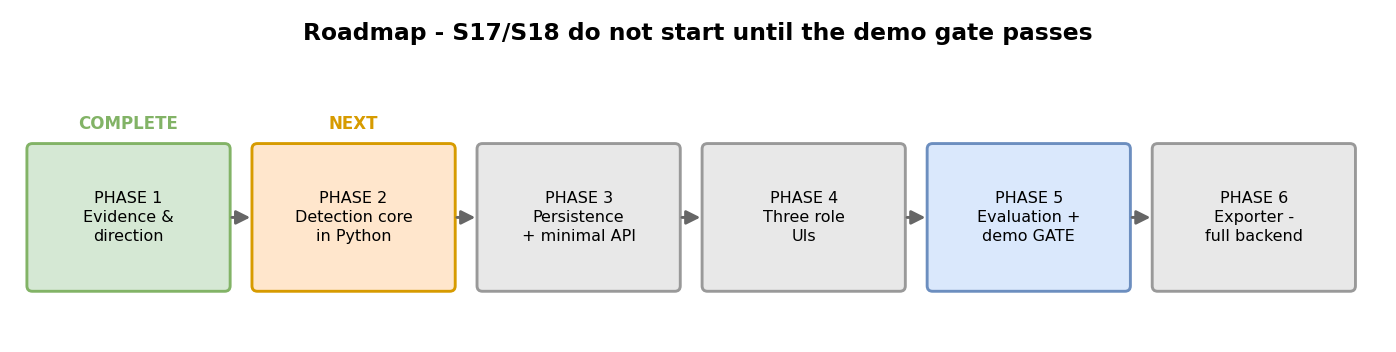
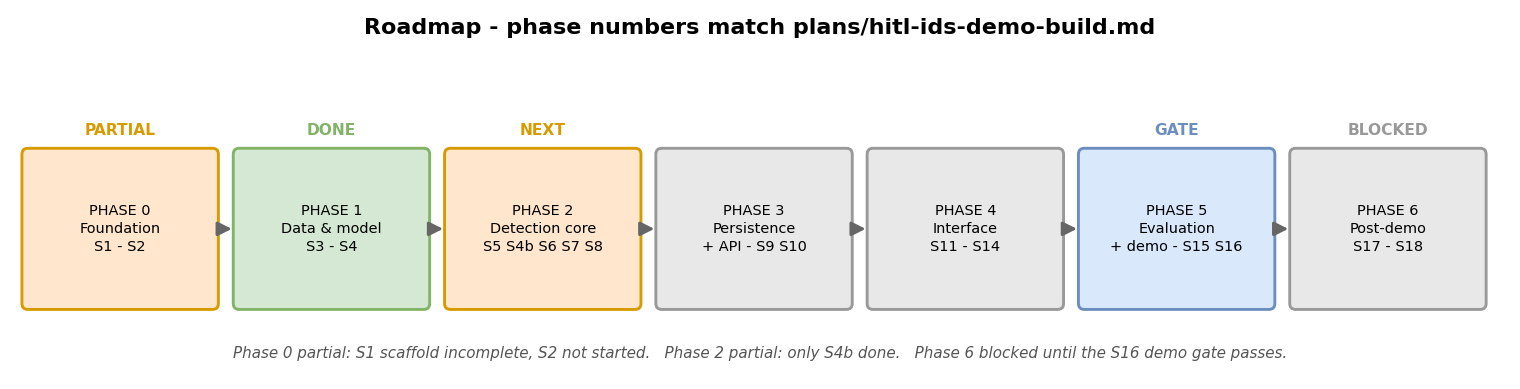
Remove phase-numbering ambiguity: plan numbering is canonical
The iteration report numbered phases differently from plans/hitl-ids-demo-build.md,
so 'Phase 1 complete' meant two different things depending on which document you
read. The plan is now the single source of truth (Phase 0 Foundation ... Phase 6
Post-demo), and the completed evidence work is named 'Iteration 1 - Evidence &
Direction', a work iteration spanning plan Phase 1 plus step S4b.

The roadmap diagram now shows all seven plan phases with their real status:
Phase 0 PARTIAL (S2 not started), Phase 1 DONE, Phase 2 only S4b done,
Phases 3-6 not started.

diff --git a/hitl-ids/scripts/make_diagrams.py b/hitl-ids/scripts/make_diagrams.py
@@ -195,27 +195,34 @@ def triage():
 
 
 def roadmap():
-    fig, ax = canvas(11, 2.6)
-    H = 2.6 / 11 * 10
+    fig, ax = canvas(12, 2.9)
+    H = 2.9 / 12 * 10
+    # Phase numbering is CANONICAL and matches plans/hitl-ids-demo-build.md exactly.
+    # Do not renumber here without renumbering the plan.
     phases = [
-        ("PHASE 1\nEvidence &\ndirection", GREEN, "green", "COMPLETE"),
-        ("PHASE 2\nDetection core\nin Python", ORANGE, "orange", "NEXT"),
-        ("PHASE 3\nPersistence\n+ minimal API", GREY, "grey", ""),
-        ("PHASE 4\nThree role\nUIs", GREY, "grey", ""),
-        ("PHASE 5\nEvaluation +\ndemo GATE", BLUE, "blue", ""),
-        ("PHASE 6\nExporter -\nfull backend", GREY, "grey", ""),
+        ("PHASE 0\nFoundation\nS1 - S2", ORANGE, "orange", "PARTIAL"),
+        ("PHASE 1\nData & model\nS3 - S4", GREEN, "green", "DONE"),
+        ("PHASE 2\nDetection core\nS5 S4b S6 S7 S8", ORANGE, "orange", "NEXT"),
+        ("PHASE 3\nPersistence\n+ API - S9 S10", GREY, "grey", ""),
+        ("PHASE 4\nInterface\nS11 - S14", GREY, "grey", ""),
+        ("PHASE 5\nEvaluation\n+ demo - S15 S16", BLUE, "blue", "GATE"),
+        ("PHASE 6\nPost-demo\nS17 - S18", GREY, "grey", "BLOCKED"),
     ]
-    y = 0.35
+    y = 0.45
     for i, (t, fc, ec, tag) in enumerate(phases):
-        x = 0.1 + i * 1.65
-        box(ax, x, y, 1.45, 1.05, t, fc, EDGE[ec], fs=7.2)
+        x = 0.06 + i * 1.42
+        box(ax, x, y, 1.28, 1.05, t, fc, EDGE[ec], fs=6.5)
         if tag:
-            ax.text(x + 0.725, y + 1.18, tag, ha="center", fontsize=7.5,
+            ax.text(x + 0.64, y + 1.16, tag, ha="center", fontsize=7,
                     weight="bold", color=EDGE[ec])
         if i < len(phases) - 1:
-            arrow(ax, x + 1.45, y + 0.525, x + 1.65, y + 0.525)
-    ax.text(5, H - 0.18, "Roadmap - S17/S18 do not start until the demo gate passes",
-            ha="center", fontsize=10.5, weight="bold")
+            arrow(ax, x + 1.28, y + 0.525, x + 1.42, y + 0.525)
+    ax.text(5, H - 0.12, "Roadmap - phase numbers match plans/hitl-ids-demo-build.md",
+            ha="center", fontsize=10, weight="bold")
+    ax.text(5, 0.10,
+            "Phase 0 partial: S1 scaffold incomplete, S2 not started.   "
+            "Phase 2 partial: only S4b done.   Phase 6 blocked until the S16 demo gate passes.",
+            ha="center", fontsize=6.8, style="italic", color="#555555")
     save(fig, "06_roadmap.png")
 
 

diff --git a/hitl-ids/docs/iteration-report.md b/hitl-ids/docs/iteration-report.md
@@ -195,21 +195,30 @@ the two claims it replaces, it is true on this data.
 
 ```mermaid
 graph TD
-    P1["PHASE 1 ✅ COMPLETE<br/>Evidence & direction"]
-    P2["PHASE 2 — NEXT<br/>Detection core in Python"]
-    P3["PHASE 3<br/>Persistence + minimal API"]
-    P4["PHASE 4<br/>Three role UIs"]
-    P5["PHASE 5<br/>Evaluation + demo gate"]
-    P6["PHASE 6<br/>Flow exporter · full backend"]
+    P0["PHASE 0 — PARTIAL<br/>Foundation · S1–S2"]
+    P1["PHASE 1 — DONE<br/>Data & model · S3–S4"]
+    P2["PHASE 2 — NEXT<br/>Detection core · S5 S4b S6 S7 S8"]
+    P3["PHASE 3<br/>Persistence + API · S9–S10"]
+    P4["PHASE 4<br/>Interface · S11–S14"]
+    P5["PHASE 5 — GATE<br/>Evaluation + demo · S15–S16"]
+    P6["PHASE 6 — BLOCKED<br/>Post-demo · S17–S18"]
 
-    P1 --> P2 --> P3 --> P4 --> P5 --> P6
+    P0 --> P1 --> P2 --> P3 --> P4 --> P5 --> P6
 
+    style P0 fill:#ffe6cc
     style P1 fill:#d5e8d4
     style P2 fill:#ffe6cc
     style P5 fill:#dae8fc
 ```
 
 </details>
+
+> ### Phase numbering — canonical
+> **`plans/hitl-ids-demo-build.md` is the single source of truth** for phase numbers.
+> An earlier draft of this report numbered them differently, which made "Phase 1 complete"
+> ambiguous. The evidence work described here is **Iteration 1 — Evidence & Direction**, a
+> *work iteration*, not a plan phase: it spans plan **Phase 1 plus step S4b**.
+> Never describe the evidence work with a bare phase number.
 
 ### Immediate next steps, in dependency order
 

diff --git a/hitl-ids/docs/HANDOVER.md b/hitl-ids/docs/HANDOVER.md
@@ -4,7 +4,8 @@
 and minimal token cost. Everything a new session needs is here or one link away.
 
 **Last updated:** 2026-09-11 (rev 2) · **Branch:** `feat/corrected-dataset-and-findings` (local only)
-**Phase 1 complete** · collaborator's `origin/main` merged · **NFR-01 explainability satisfied**
+**Iteration 1 (Evidence & Direction) complete** — = plan Phase 1 + step S4b · collaborator's
+`origin/main` merged · **NFR-01 explainability satisfied**
 
 ---
 
@@ -45,7 +46,18 @@ Repo: `github.com/CSIT-321/CSIT321-Human-in-the-loop_IDS` · working tree `hitl-
 
 ## 3. Current state
 
-**Phase 1 (evidence & direction) is COMPLETE and committed.** 35 files, 209,205 insertions.
+**Iteration 1 (Evidence & Direction) is COMPLETE and committed.** 35 files, 209,205 insertions.
+
+> **Phase numbering — no ambiguity permitted.** `plans/hitl-ids-demo-build.md` is canonical:
+> Phase 0 Foundation (S1–S2) · Phase 1 Data & model (S3–S4) · Phase 2 Detection core
+> (S5, S4b, S6, S7, S8) · Phase 3 Persistence + API (S9–S10) · Phase 4 Interface (S11–S14) ·
+> Phase 5 Evaluation + demo gate (S15–S16) · Phase 6 Post-demo (S17–S18).
+>
+> The completed evidence work is **Iteration 1** — a *work iteration* spanning plan Phase 1 plus
+> S4b. It is **not** "Phase 1". Never use a bare phase number for it.
+>
+> **Actual status:** Phase 0 **PARTIAL** (S1 scaffold incomplete, **S2 not started**) ·
+> Phase 1 **DONE** · Phase 2 **only S4b done** · Phases 3–6 **not started**.
 
 ```
 hitl-ids/
